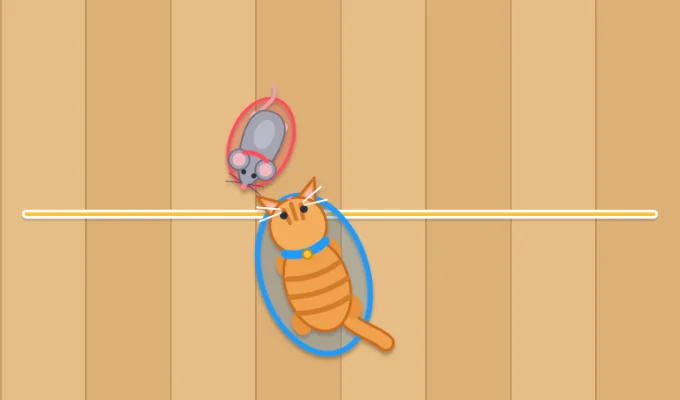
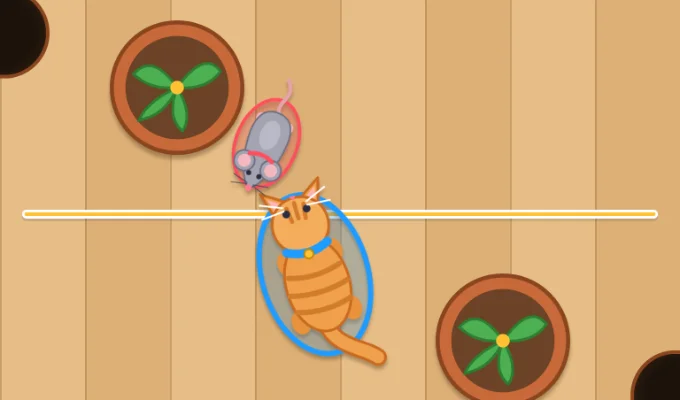
Give ネコとネズミ two flowerpots to circle and a mouse-only tunnel between the walls
On the open floor the faster cat only had to run straight at the mouse. The
pots let the nimbler mouse circle out of reach, and the wall holes let it slip
to the far side where the cat cannot follow. Both sit where a half turn of the
board maps them onto each other, so neither side is favoured.

diff --git a/src/lib/games/cat-mouse/engine.ts b/src/lib/games/cat-mouse/engine.ts
@@ -11,6 +11,8 @@ export interface Runner {
   vy: number;
   /** 向いている角度（時計回り、上が 0）。止まっても最後に走った向きを保つ */
   face: number;
+  /** 穴から出たばかりの残り秒。そのあいだは穴に入らない */
+  tunnel: number;
 }
 
 /** 指を置いた位置が中心のスティック。ずらした向きと量で走る */
@@ -80,6 +82,23 @@ const READY_S = 1.8;
 const END_S = 1.6;
 const DEAD_ZONE = 0.012;
 
+/**
+ * 床の植木鉢。ネコもネズミも通れないが、小回りのきくネズミはまわりを回って逃げられる。
+ * 穴は左右の壁にひとつずつで、ネズミだけが入れて反対の穴から出る。
+ * どちらも盤面を 180 度回すと重なる位置に置き、上下のプレイヤーで有利不利が出ないようにする
+ */
+export const POTS = [
+  { x: 0.26, y: 0.36, r: 0.075 },
+  { x: 0.74, y: 0.64, r: 0.075 }
+] as const;
+export const HOLES = [
+  { x: 0, y: 0.3 },
+  { x: 1, y: 0.7 }
+] as const;
+/** 穴の口の高さ（半分） */
+export const HOLE_R = 0.05;
+const TUNNEL_S = 0.8;
+
 const other = (p: Player): Player => (p === 1 ? 2 : 1);
 const dist = (state: GameState, a: { x: number; y: number }, b: { x: number; y: number }) =>
   Math.hypot((a.x - b.x) * state.aspect, a.y - b.y);
@@ -106,7 +125,7 @@ export function createState(aspect: number, cat: Player, random: () => number = 
 
 /** それぞれ自分の陣地の真ん中から、相手のほうを向いて始める */
 function runner(player: Player): Runner {
-  return { x: 0.5, y: player === 1 ? 0.8 : 0.2, vx: 0, vy: 0, face: player === 1 ? 0 : 180 };
+  return { x: 0.5, y: player === 1 ? 0.8 : 0.2, vx: 0, vy: 0, face: player === 1 ? 0 : 180, tunnel: 0 };
 }
 
 /** チーズはネズミから離れた、ネコのすぐそばでない場所に出す。見つからなければ最後の候補で妥協する */
@@ -120,7 +139,8 @@ export function placeCheese(state: GameState): void {
       x: margin + state.random() * (1 - margin * 2),
       y: margin + state.random() * (1 - margin * 2)
     };
-    if (dist(state, spot, mouse) > 0.35 && dist(state, spot, cat) > 0.2) break;
+    const clear = POTS.every((pot) => dist(state, spot, pot) > pot.r + CHEESE_R + 0.03);
+    if (clear && dist(state, spot, mouse) > 0.35 && dist(state, spot, cat) > 0.2) break;
   }
   state.cheese = spot;
 }
@@ -188,6 +208,29 @@ function run(state: GameState, player: Player, dt: number) {
     r.y = Math.min(1 - rad, Math.max(rad, r.y));
     r.vy = 0;
   }
+  for (const pot of POTS) {
+    const dx = (r.x - pot.x) * state.aspect;
+    const dy = r.y - pot.y;
+    const d = Math.hypot(dx, dy);
+    const reach = pot.r + rad;
+    if (d >= reach || d === 0) continue;
+    r.x = pot.x + (dx / d) * (reach / state.aspect);
+    r.y = pot.y + (dy / d) * reach;
+    // 鉢に向かう速さだけ消して、ふちに沿って滑らせる
+    const into = (r.vx * dx + r.vy * dy) / d;
+    if (into < 0) [r.vx, r.vy] = [r.vx - (into * dx) / d, r.vy - (into * dy) / d];
+  }
+  r.tunnel = Math.max(0, r.tunnel - dt);
+  if (isCat || r.tunnel > 0) return;
+  HOLES.forEach((hole, i) => {
+    const atWall = hole.x === 0 ? r.x <= rx + 0.005 : r.x >= 1 - rx - 0.005;
+    if (!atWall || Math.abs(r.y - hole.y) > HOLE_R) return;
+    const out = HOLES[1 - i];
+    r.x = out.x === 0 ? rx + 0.01 : 1 - rx - 0.01;
+    r.y = out.y;
+    r.vx = (out.x === 0 ? 1 : -1) * Math.abs(r.vx);
+    r.tunnel = TUNNEL_S;
+  });
 }
 
 function nextRound(state: GameState, events: CatMouseEvent[]) {

diff --git a/src/lib/games/cat-mouse/engine.test.ts b/src/lib/games/cat-mouse/engine.test.ts
@@ -1,5 +1,5 @@
 import { describe, expect, it } from 'vitest';
-import { CAT_R, createState, type GameState, ROUND_S, step, STICK_R, updateSticks } from './engine';
+import { CAT_R, createState, type GameState, HOLES, POTS, ROUND_S, step, STICK_R, updateSticks } from './engine';
 
 /** 始まりの間を飛ばして走れる状態にする */
 function playing(cat: 1 | 2 = 1): GameState {
@@ -107,5 +107,41 @@ describe('cat-mouse', () => {
     decided.scores = { 1: 1, 2: 3 };
     decided.runners[1].y = decided.runners[2].y + CAT_R;
     expect(run(decided, 2)).toContainEqual({ type: 'win', player: 2 });
+  });
+
+  /** プレイヤー p を、今いる位置から (dx, dy) の向きへ全速で走らせ続ける */
+  const drive = (state: GameState, p: 1 | 2, dx: number, dy: number) => {
+    const r = state.runners[p];
+    updateSticks(state, [{ id: p, side: p, x: r.x, y: r.y, ox: r.x, oy: r.y }]);
+    updateSticks(state, [{ id: p, side: p, x: r.x + dx * STICK_R, y: r.y + dy * STICK_R, ox: r.x, oy: r.y }]);
+  };
+
+  it('植木鉢は通り抜けられない', () => {
+    const state = playing();
+    const pot = POTS[0];
+    Object.assign(state.runners[2], { x: pot.x, y: pot.y - 0.25 });
+    Object.assign(state.runners[1], { x: 0.9, y: 0.95 });
+    drive(state, 2, 0, 1);
+    run(state, 1.5);
+    const r = state.runners[2];
+    expect(Math.hypot(r.x - pot.x, r.y - pot.y)).toBeGreaterThanOrEqual(pot.r);
+  });
+
+  it('ネズミは壁の穴から反対の穴へ抜けるが、ネコは抜けない', () => {
+    const state = playing(1);
+    const [a, b] = HOLES;
+    Object.assign(state.runners[2], { x: 0.15, y: a.y });
+    Object.assign(state.runners[1], { x: 0.5, y: 0.95 });
+    drive(state, 2, -1, 0);
+    run(state, 0.5);
+    expect(state.runners[2].x).toBeGreaterThan(0.8);
+    expect(Math.abs(state.runners[2].y - b.y)).toBeLessThan(0.05);
+
+    const cat = playing(1);
+    Object.assign(cat.runners[1], { x: 0.15, y: a.y });
+    Object.assign(cat.runners[2], { x: 0.9, y: 0.95 });
+    drive(cat, 1, -1, 0);
+    run(cat, 1);
+    expect(cat.runners[1].x).toBeLessThan(0.2);
   });
 });

diff --git a/src/lib/games/cat-mouse/Room.svelte b/src/lib/games/cat-mouse/Room.svelte
@@ -1,0 +1,65 @@
+<script lang="ts">
+  import { HOLE_R, HOLES, POTS } from './engine';
+</script>
+
+<!-- 動かない家具。上から見た植木鉢と、ネズミだけが通れる壁の穴 -->
+{#each POTS as pot (pot.x)}
+  <div class="pot" style:left="{pot.x * 100}%" style:top="{pot.y * 100}%" style:height="{pot.r * 200}%">
+    <svg viewBox="-50 -50 100 100" aria-hidden="true">
+      <circle r="48" fill="#c8693a" stroke="#8a4520" stroke-width="3" />
+      <circle r="38" fill="#6b4226" />
+      <!-- 真ん中から 4 方向へ広がる葉 -->
+      <path
+        d="M0 0Q-18-26-32-10Q-20 2 0 0ZM0 0Q20-28 32-12Q22 2 0 0ZM0 0Q12 20 4 32Q-8 22 0 0ZM0 0Q-22 10-28 24Q-8 20 0 0Z"
+        fill="#4caf50"
+        stroke="#2e7d32"
+        stroke-width="2"
+      />
+      <circle r="5" fill="#ffc233" />
+    </svg>
+  </div>
+{/each}
+
+{#each HOLES as hole (hole.x)}
+  <div class="hole" class:right={hole.x === 1} style:top="{hole.y * 100}%" style:height="{HOLE_R * 200}%"></div>
+{/each}
+
+<style>
+  .pot,
+  .hole {
+    position: absolute;
+    pointer-events: none;
+  }
+
+  .pot {
+    aspect-ratio: 1;
+    translate: -50% -50%;
+    filter: drop-shadow(0 5px 2px rgb(60 36 16 / 0.35));
+  }
+
+  .pot svg {
+    display: block;
+    width: 100%;
+    height: 100%;
+  }
+
+  /* 壁ぎわの暗いアーチ。左右どちらの穴も同じトンネルにつながっていることを、同じ形で見せる */
+  .hole {
+    left: 0;
+    aspect-ratio: 0.55;
+    translate: 0 -50%;
+    border: 4px solid #8a4520;
+    border-left: none;
+    border-radius: 0 999px 999px 0;
+    background: radial-gradient(circle at 0 50%, #1c120b 55%, #3a2414);
+  }
+
+  .hole.right {
+    left: auto;
+    right: 0;
+    border-left: 4px solid #8a4520;
+    border-right: none;
+    border-radius: 999px 0 0 999px;
+    background: radial-gradient(circle at 100% 50%, #1c120b 55%, #3a2414);
+  }
+</style>

diff --git a/src/lib/games/cat-mouse/Howto.svelte b/src/lib/games/cat-mouse/Howto.svelte
@@ -3,7 +3,9 @@
   import { ROUND_S } from './engine';
 </script>
 
-<span class="howto-rule">ネコとネズミを 1 回ずつ。ネズミのときに食べたチーズが多いほうの勝ち</span>
+<span class="howto-rule"
+  >ネコとネズミを 1 回ずつ。ネズミのときに食べたチーズが多いほうの勝ち。壁の穴はネズミだけ通れる</span
+>
 <span class="howto-legend">
   <span class="howto-item"><span class="howto-mark"><Icon name="cat" size="100%" /></span>つかまえたら交代</span>
   <span class="howto-item"><span class="howto-mark"><Icon name="mouse" size="100%" /></span>{ROUND_S} 秒にげきれ</span>

diff --git a/src/lib/games/cat-mouse/CatMouse.svelte b/src/lib/games/cat-mouse/CatMouse.svelte
@@ -9,6 +9,7 @@
   import { CAT_R, CHEESE_R, createState, MOUSE_R, step, STICK_R, updateSticks } from './engine';
   import Critter from './Critter.svelte';
   import Hud from './Hud.svelte';
+  import Room from './Room.svelte';
   import { sounds } from './sounds';
 
   let { onfinish }: GameProps = $props();
@@ -91,6 +92,7 @@
   style:--cheese="{CHEESE_R * 260}%"
   style:--stick="{STICK_R * 200}%"
 >
+  <Room />
   <div class="cheese" hidden={view.phase !== 'play'} bind:this={cheeseEl}><Icon name="cheese" size="100%" /></div>
 
   {#each [1, 2] as const as player (player)}
